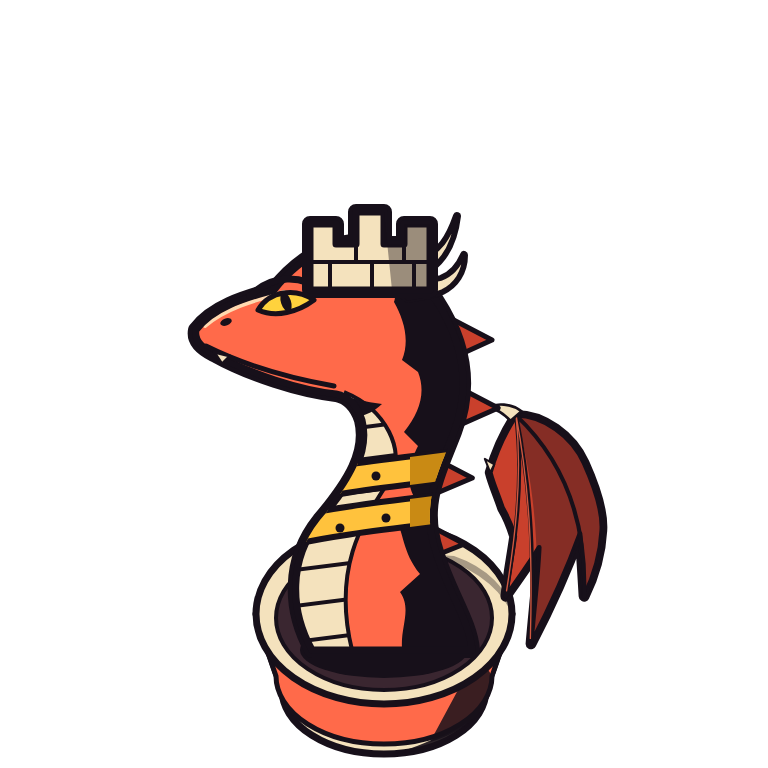
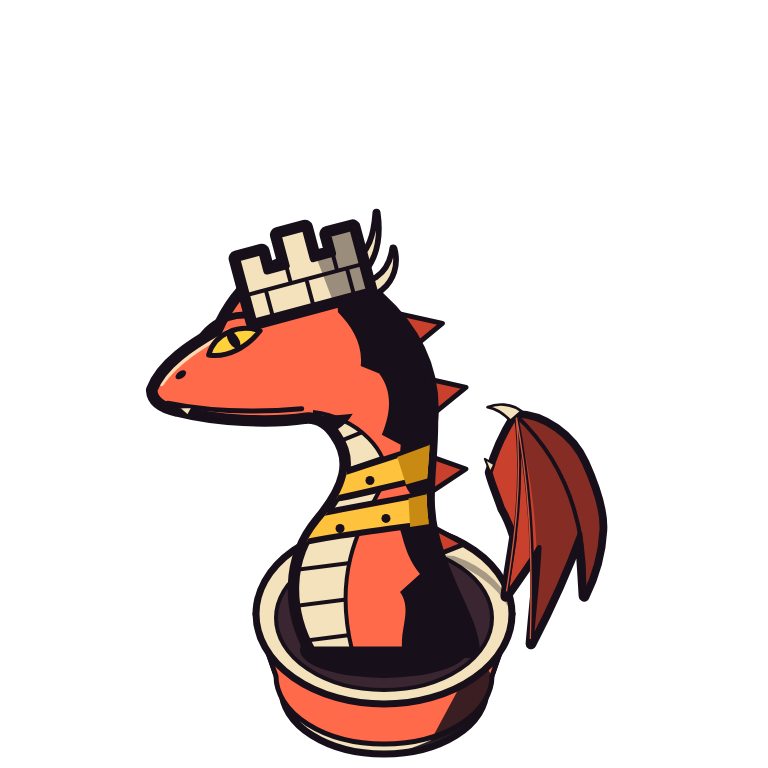
art-src: 龍 v10 — 全部低頭 15°（脖子平順彎曲，頭部整塊旋轉）
Claude-Session: https://claude.ai/code/session_01YcRvipXLdSARSXJBNmnAqn

Changed region(s): [[0.1875, 0.25, 0.6562, 0.7188]]

diff --git a/art-src/dragon/build.js b/art-src/dragon/build.js
@@ -20,6 +20,23 @@ const cup = () => `
 const plinth = `<ellipse cx="384" cy="650" rx="84" ry="28" fill="${INK}"/>`;
 
 /* ── 頭部（側面朝左）共用的輪廓 ── */
+/* ── 低頭：脖子從 y=540 往上平順地彎，y≤420（頭）整塊逆時針轉 15°（嘴巴朝下）。
+   跨過彎曲區的形狀（頭頸輪廓、腹甲、黑影、背刺、鬃毛、護甲）逐點變形；只在頭上的東西（眼、嘴、角、頭飾）整塊旋轉。── */
+const PIV = [404, 520], TILT = -15, BEND = [540, 420];
+function bendPt(x, y) {
+  let t = (BEND[0] - y) / (BEND[0] - BEND[1]); t = Math.max(0, Math.min(1, t)); t = t * t * (3 - 2 * t);
+  const a = TILT * t * Math.PI / 180, dx = x - PIV[0], dy = y - PIV[1];
+  return [PIV[0] + dx * Math.cos(a) - dy * Math.sin(a), PIV[1] + dx * Math.sin(a) + dy * Math.cos(a)];
+}
+function W(d) {                                          // 只接受絕對座標的 M / L / C / Q / Z
+  const tk = d.match(/[A-Za-z]|-?\d*\.?\d+/g); let out = '', i = 0;
+  while (i < tk.length) {
+    const c = tk[i++]; if (!/^[MLCQZ]$/.test(c)) throw new Error('bend: 不支援 ' + c);
+    out += c; while (i < tk.length && !/[A-Za-z]/.test(tk[i])) { const [x, y] = bendPt(+tk[i], +tk[i + 1]); out += x.toFixed(1) + ',' + y.toFixed(1) + ' '; i += 2; }
+  }
+  return out.trim();
+}
+const rigid = (body) => `<g transform="rotate(${TILT} ${PIV[0]} ${PIV[1]})">${body}</g>`;
 // 頭 + S 形脖子：胸口往前挺 → 脖子中段往後收 → 頭再往前探
 const HEAD = 'M196,330 C212,308 244,298 274,290 C296,262 322,246 352,242 C380,240 404,254 414,278 L436,300 '
   + 'C462,340 472,384 454,432 C438,474 420,504 436,552 C448,592 470,622 472,650 '
@@ -27,30 +44,30 @@ const HEAD = 'M196,330 C212,308 244,298 274,290 C296,262 322,246 352,242 C380,24
   + 'C300,390 250,374 214,354 C202,348 194,340 196,330 Z';
 const BELLY = 'M312,650 C290,610 288,560 320,520 C352,482 370,452 362,420 C356,402 346,396 336,394 L344,392 C388,410 404,452 392,476 C370,512 330,560 352,650 Z';
 const NECK_SPINES = [[452, 336], [462, 404], [440, 474], [436, 540]]
-  .map(([x, y], i) => { const s = 1.25 - i * 0.12; return `<path d="M${x - 6},${y - 16 * s} L${x + 32 * s},${y + 4} L${x - 6},${y + 20 * s} Z" fill="${RED2}" stroke="${INK}" stroke-width="5" stroke-linejoin="round"/>`; }).join('');
+  .map(([x, y], i) => { const s = 1.25 - i * 0.12; return `<path d="${W(`M${x - 6},${y - 16 * s} L${x + 32 * s},${y + 4} L${x - 6},${y + 20 * s} Z`)}" fill="${RED2}" stroke="${INK}" stroke-width="5" stroke-linejoin="round"/>`; }).join('');
 const horn = (d, w = OL) => `<path d="${d}" fill="none" stroke="${INK}" stroke-width="${SIL}" stroke-linejoin="round"/><path d="${d}" fill="${CREAM}" stroke="${INK}" stroke-width="${w}" stroke-linejoin="round"/>`;
 const horns = (k, body) => `<g transform="translate(392 282) scale(${k}) translate(-392 -282)">${body}</g>`;   // 角以根部為中心縮放
 const hornShadow = (d) => `<path d="${d}" fill="${INK}" opacity=".55"/>`;
 
 function head({ clipId, eyeScale = 1, mouth = 'smile' }) {
+  const HD = W(HEAD), BL = W(BELLY);
   return `
-  <clipPath id="${clipId}"><path d="${HEAD}"/></clipPath>
-  <path d="${HEAD}" fill="none" stroke="${INK}" stroke-width="${SIL}" stroke-linejoin="round"/>
-  <path d="${HEAD}" fill="${RED}"/>
+  <clipPath id="${clipId}"><path d="${HD}"/></clipPath>
+  <path d="${HD}" fill="none" stroke="${INK}" stroke-width="${SIL}" stroke-linejoin="round"/>
+  <path d="${HD}" fill="${RED}"/>
   <g clip-path="url(#${clipId})">
     <!-- 腹甲（沿著 S 形的喉嚨與胸口）-->
-    <clipPath id="${clipId}b"><path d="${BELLY}"/></clipPath>
-    <path d="${BELLY}" fill="${CREAM}"/>
-    <g clip-path="url(#${clipId}b)" stroke="${INK}" stroke-width="4">${[430, 462, 494, 528, 564, 600, 636].map(y => `<path d="M280,${y + 8} L420,${y - 10}"/>`).join('')}</g>
-    <path d="M344,392 C388,410 404,452 392,476 C370,512 330,560 352,650" fill="none" stroke="${INK}" stroke-width="4"/>
+    <clipPath id="${clipId}b"><path d="${BL}"/></clipPath>
+    <path d="${BL}" fill="${CREAM}"/>
+    <g clip-path="url(#${clipId}b)" stroke="${INK}" stroke-width="4">${[430, 462, 494, 528, 564, 600, 636].map(y => `<path d="${W(`M280,${y + 8} L350,${y - 1} L420,${y - 10}`)}"/>`).join('')}</g>
+    <path d="${W('M344,392 C388,410 404,452 392,476 C370,512 330,560 352,650')}" fill="none" stroke="${INK}" stroke-width="4"/>
     <!-- 大黑影：沿著後頸，邊緣切成有節奏的鋸齒（不是一整根柱子）-->
-    <path d="M372,232 L480,232 L480,660 L404,660 C396,632 414,612 400,592 L420,574 C402,552 404,532 394,514 L416,500 C404,482 410,462 418,446 L404,432 C420,412 426,392 418,372 L402,360 C410,340 404,320 394,302 C400,284 384,256 372,232 Z" fill="${INK}"/>
-    <path d="M336,394 C300,390 250,374 214,354 C230,374 290,402 336,418 C356,420 372,414 382,404 C366,402 350,398 336,394 Z" fill="${INK}"/>
-    <!-- 鼻梁亮線 -->
-    <path d="M205,326 C226,308 256,300 284,292" fill="none" stroke="#ffd9b0" stroke-width="4" stroke-linecap="round"/>
+    <path d="${W('M372,232 L520,232 L520,320 L520,400 L520,480 L520,560 L520,660 L404,660 C396,632 414,612 400,592 L420,574 C402,552 404,532 394,514 L416,500 C404,482 410,462 418,446 L404,432 C420,412 426,392 418,372 L402,360 C410,340 404,320 394,302 C400,284 384,256 372,232 Z')}" fill="${INK}"/>
+    ${rigid(`<path d="M336,394 C300,390 250,374 214,354 C230,374 290,402 336,418 C356,420 372,414 382,404 C366,402 350,398 336,394 Z" fill="${INK}"/>
+    <path d="M205,326 C226,308 256,300 284,292" fill="none" stroke="#ffd9b0" stroke-width="4" stroke-linecap="round"/>`)}
   </g>
-  <path d="${HEAD}" fill="none" stroke="${INK}" stroke-width="${OL}" stroke-linejoin="round"/>
-  <!-- 眼睛 -->
+  <path d="${HD}" fill="none" stroke="${INK}" stroke-width="${OL}" stroke-linejoin="round"/>
+  ${rigid(`
   <g transform="translate(284,304) scale(${eyeScale})">
     <path d="M-26,6 C-14,-14 12,-16 30,-4 C14,8 -8,14 -26,6 Z" fill="${EYE}" stroke="${INK}" stroke-width="5" stroke-linejoin="round"/>
     <ellipse cx="2" cy="-2" rx="5" ry="10" transform="rotate(-18 2 -2)" fill="${INK}"/>
@@ -59,7 +76,7 @@ function head({ clipId, eyeScale = 1, mouth = 'smile' }) {
   <!-- 鼻孔、嘴 -->
   <ellipse cx="226" cy="322" rx="6" ry="3.5" fill="${INK}" transform="rotate(-20 226 322)"/>
   <path d="${mouth === 'smile' ? 'M206,346 C250,368 300,380 334,386' : 'M206,346 C250,362 300,372 334,380'}" fill="none" stroke="${INK}" stroke-width="5" stroke-linecap="round"/>
-  <path d="M214,352 L222,364 L230,356 Z" fill="${CREAM}" stroke="${INK}" stroke-width="3" stroke-linejoin="round"/>`;
+  <path d="M214,352 L222,364 L230,356 Z" fill="${CREAM}" stroke="${INK}" stroke-width="3" stroke-linejoin="round"/>`)}`;
 }
 
 /* ── 翅膀（參考 David 給的摺翼圖）：腕關節在最上方（帶一根往上彎的大爪），翼骨往下垂，
@@ -89,7 +106,7 @@ const HORN_A = 'M362,266 C392,246 428,244 456,234 C488,222 506,196 522,150 C516,
 const HORN_B = 'M398,294 C430,282 462,284 490,276 C512,268 526,252 536,228 C536,262 518,288 492,300 C468,310 444,312 424,316 Z';
 const HORN_A_SH = 'M468,256 C496,236 516,200 522,150 C518,212 500,252 472,270 C448,284 424,292 404,294 C428,282 448,270 468,256 Z';
 
-const t3 = () => `${cup()}${plinth}${wing(0.6)}${NECK_SPINES}${head({ clipId: 'c3' })}${horns(0.6, horn(HORN_A) + horn(HORN_B) + hornShadow(HORN_A_SH))}${mitre()}`;
+const t3 = () => `${cup()}${plinth}${wing(0.6)}${(NECK_SPINES + head({ clipId: 'c3' }) + rigid(horns(0.6, horn(HORN_A) + horn(HORN_B) + hornShadow(HORN_A_SH)) + mitre()))}`;
 
 /* ── t1 剛出生：蛋殼 + 小龍頭 + 兩隻小角 ── */
 const t1 = () => {
@@ -97,7 +114,7 @@ const t1 = () => {
   return `${cup()}
   <ellipse cx="384" cy="668" rx="86" ry="22" fill="${INK}"/>
   <!-- 小龍頭（探出殼外）-->
-  <g transform="translate(104 222) scale(.78)">
+  <g transform="translate(104 222) scale(.78) rotate(-15 380 420)">
     <path d="M200,330 C214,306 252,296 290,290 C310,262 340,248 372,248 C402,248 424,266 430,296 C440,330 426,372 420,420 L330,430 C296,414 252,386 216,362 C206,354 198,344 200,330 Z" fill="${RED}" stroke="${INK}" stroke-width="${OL + 2}" stroke-linejoin="round"/>
     <path d="M372,248 C402,248 424,266 430,296 C440,330 426,372 420,420 L370,426 C392,390 388,340 400,300 C404,282 392,262 372,248 Z" fill="${INK}"/>
     <path d="M208,332 C232,310 264,300 292,294" fill="none" stroke="#ffd9b0" stroke-width="5" stroke-linecap="round"/>
@@ -122,7 +139,7 @@ const crown = `
     <path d="M372,200 L398,246 L428,214 L440,268 L402,270 Z" fill="${GOLD2}"/>
     <rect x="296" y="262" width="150" height="20" rx="6" fill="${GOLD}" stroke="${INK}" stroke-width="6"/>
     <path d="M372,196 L372,140 M352,160 L392,160" stroke="${INK}" stroke-width="24" stroke-linecap="round"/><path d="M372,196 L372,140 M352,160 L392,160" stroke="${GOLD}" stroke-width="13" stroke-linecap="round"/></g>`;
-const t6 = () => `${cup()}${plinth}${wing(0.82)}${NECK_SPINES}${head({ clipId: 'c6' })}${horns(0.58, horn(HORN_A) + hornShadow(HORN_A_SH))}${crown}
+const t6 = () => `${cup()}${plinth}${wing(0.82)}${(NECK_SPINES + head({ clipId: 'c6' }) + rigid(horns(0.58, horn(HORN_A) + hornShadow(HORN_A_SH)) + crown))}
   <path d="M330,560 L384,540 L438,560 L430,610 L384,632 L338,610 Z" fill="${GOLD}" stroke="${INK}" stroke-width="6" stroke-linejoin="round" transform="translate(-14 0)"/>
   <path d="M384,540 L438,560 L430,610 L384,632 Z" fill="${GOLD2}" transform="translate(-14 0)"/>
   <circle cx="370" cy="590" r="12" fill="${RED}" stroke="${INK}" stroke-width="4"/>`;
@@ -134,8 +151,8 @@ const shape = (d, fill, w = OL) => `${sil(d)}<path d="${d}" fill="${fill}" strok
 
 // t2 馬：沿後頸的鬃毛（奶油色、一束一束往後飄）
 const MANE = 'M398,258 C436,240 474,262 484,296 L466,298 C492,322 494,350 478,366 L464,360 C490,388 490,418 472,432 L458,426 C478,452 474,478 456,492 L444,470 C456,440 458,410 448,380 C442,340 430,300 398,258 Z';
-const mane = () => `${shape(MANE, CREAM)}<path d="M466,298 C470,330 466,350 458,362 M464,360 C468,392 464,412 456,428" fill="none" stroke="${INK}" stroke-width="4"/>
-  <path d="M484,296 L466,298 C492,322 494,350 478,366 L464,360 C490,388 490,418 472,432 L458,426 C478,452 474,478 456,492 L452,480 C470,456 468,430 454,420 C474,400 470,376 456,366 C474,346 470,316 456,304 Z" fill="${INK}" opacity=".45"/>`;
+const mane = () => `${shape(W(MANE), CREAM)}<path d="${W('M466,298 C470,330 466,350 458,362')} ${W('M464,360 C468,392 464,412 456,428')}" fill="none" stroke="${INK}" stroke-width="4"/>
+  <path d="${W('M484,296 L466,298 C492,322 494,350 478,366 L464,360 C490,388 490,418 472,432 L458,426 C478,452 474,478 456,492 L452,480 C470,456 468,430 454,420 C474,400 470,376 456,366 C474,346 470,316 456,304 Z')}" fill="${INK}" opacity=".45"/>`;
 
 // t3 象：主教帽（尖頂、斜縫、頂球）
 const MITRE = 'M318,270 C318,224 338,192 370,164 C402,192 422,224 422,270 Z';
@@ -151,9 +168,9 @@ const battlement = () => `<g transform="translate(0 6)">${shape(BATTLE, CREAM)}
   <path d="M384,206 L384,238 L404,238 L404,218 L430,218 L430,284 L392,284 Z" fill="${INK}" opacity=".4"/>
   <path d="M310,256 L430,256 M330,284 L330,256 M356,256 L356,238 M372,284 L372,256 M404,256 L404,238 M414,284 L414,256" stroke="${INK}" stroke-width="4"/></g>`;
 const gorget = (clipId) => `<g clip-path="url(#${clipId})">
-  ${[[478, 506], [520, 548]].map(([a, b]) => `<path d="M280,${a} C330,${a - 14} 420,${a - 22} 480,${a - 30} L480,${b - 30} C420,${b - 22} 330,${b - 14} 280,${b} Z" fill="${GOLD}" stroke="${INK}" stroke-width="6" stroke-linejoin="round"/>
-  <path d="M410,${a - 21} L480,${a - 30} L480,${b - 30} L410,${b - 21} Z" fill="${GOLD2}"/>`).join('')}
-  ${[[330, 486], [376, 476], [340, 528], [386, 518]].map(([x, y]) => `<circle cx="${x}" cy="${y}" r="4.5" fill="${INK}"/>`).join('')}</g>`;
+  ${[[478, 506], [520, 548]].map(([a, b]) => `<path d="${W(`M280,${a} C330,${a - 14} 420,${a - 22} 480,${a - 30} L480,${b - 30} C420,${b - 22} 330,${b - 14} 280,${b} Z`)}" fill="${GOLD}" stroke="${INK}" stroke-width="6" stroke-linejoin="round"/>
+  <path d="${W(`M410,${a - 21} L480,${a - 30} L480,${b - 30} L410,${b - 21} Z`)}" fill="${GOLD2}"/>`).join('')}
+  ${[[330, 486], [376, 476], [340, 528], [386, 518]].map(([x, y]) => { const [cx, cy] = bendPt(x, y); return `<circle cx="${cx}" cy="${cy}" r="4.5" fill="${INK}"/>`; }).join('')}</g>`;
 
 // t5 皇后：金環 + 5 根往外彎的冠刺（尖端有珠）
 const queenCrown = () => {
@@ -168,9 +185,9 @@ const queenCrown = () => {
 
 // t2 是青少年：整隻比 t3 矮一點（介於 t1 與 t3，偏向 t3），以底座為中心縮放
 const teen = (body, k = 0.87) => `<g transform="translate(384 650) scale(${k}) translate(-384 -650)">${body}</g>`;
-const t2 = () => `${cup()}${plinth}${teen(mane() + head({ clipId: 'c2' }) + horns(0.5, horn(HORN_A) + hornShadow(HORN_A_SH)))}`;
-const t4 = () => `${cup()}${plinth}${wing(0.68)}${NECK_SPINES}${head({ clipId: 'c4' })}${gorget('c4')}${horns(0.5, horn(HORN_A) + horn(HORN_B))}${battlement()}`;
-const t5 = () => `${cup()}${plinth}${wing(0.75)}${NECK_SPINES}${head({ clipId: 'c5' })}${horns(0.55, horn(HORN_A) + hornShadow(HORN_A_SH))}${queenCrown()}`;
+const t2 = () => `${cup()}${plinth}${teen((mane() + head({ clipId: 'c2' }) + rigid(horns(0.5, horn(HORN_A) + hornShadow(HORN_A_SH)))))}`;
+const t4 = () => `${cup()}${plinth}${wing(0.68)}${(NECK_SPINES + head({ clipId: 'c4' }) + gorget('c4') + rigid(horns(0.5, horn(HORN_A) + horn(HORN_B)) + battlement()))}`;
+const t5 = () => `${cup()}${plinth}${wing(0.75)}${(NECK_SPINES + head({ clipId: 'c5' }) + rigid(horns(0.55, horn(HORN_A) + hornShadow(HORN_A_SH)) + queenCrown()))}`;
 const tiers = { 1: t1, 2: t2, 3: t3, 4: t4, 5: t5, 6: t6 };
 const svgOf = (body) => `<svg xmlns="http://www.w3.org/2000/svg" viewBox="0 0 768 768" width="768" height="768">${body}</svg>`;
 const out = path.join(__dirname, '..', 'out'); fs.mkdirSync(out, { recursive: true });
